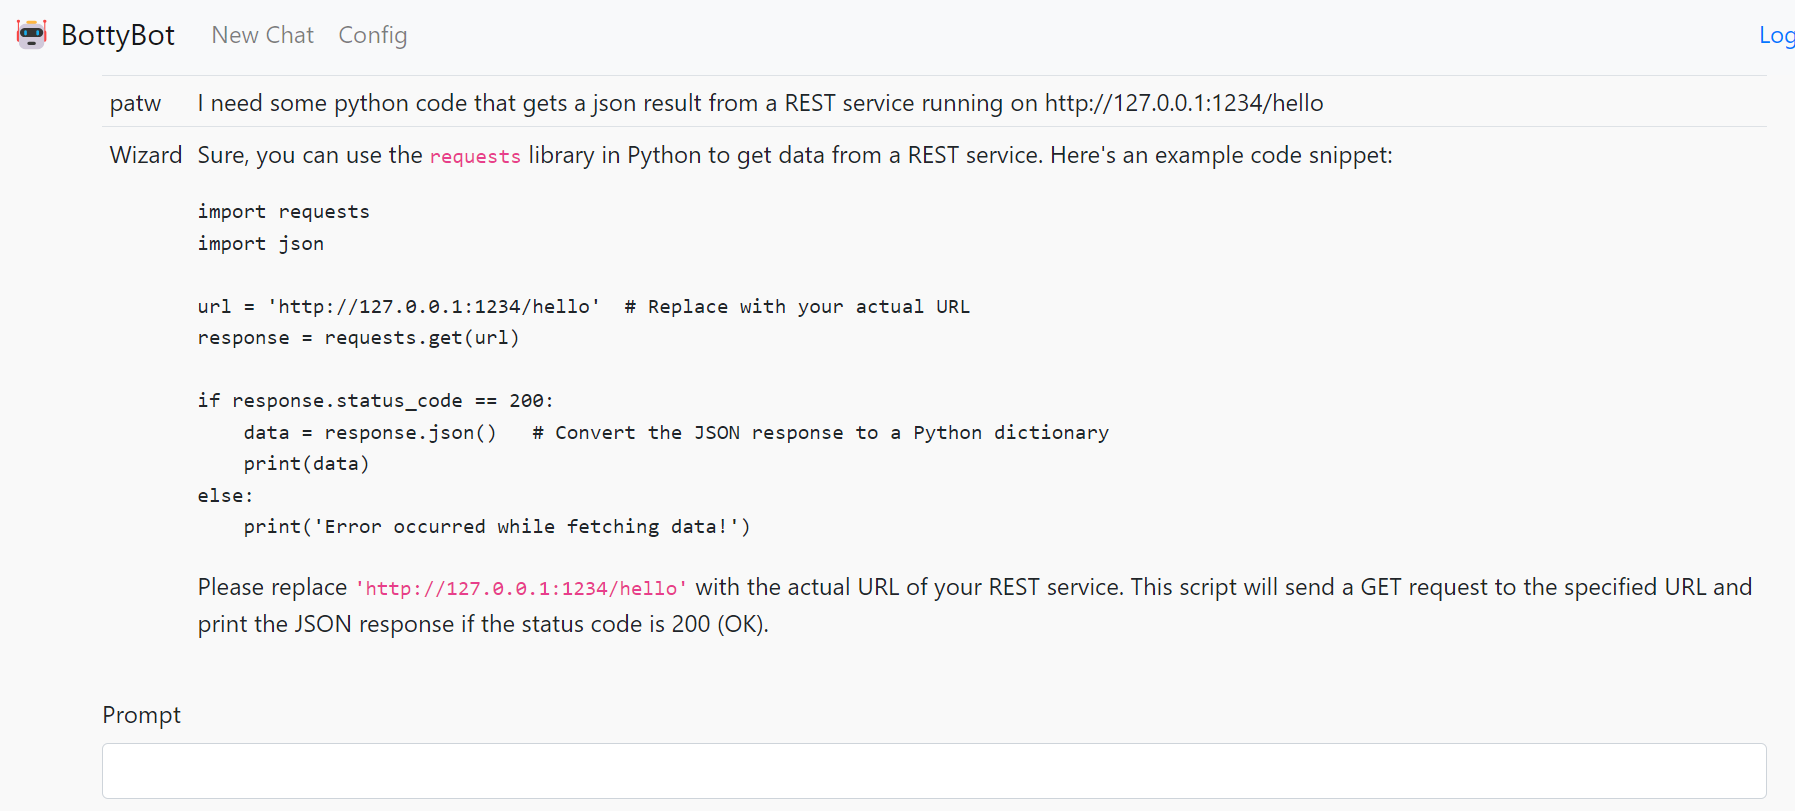
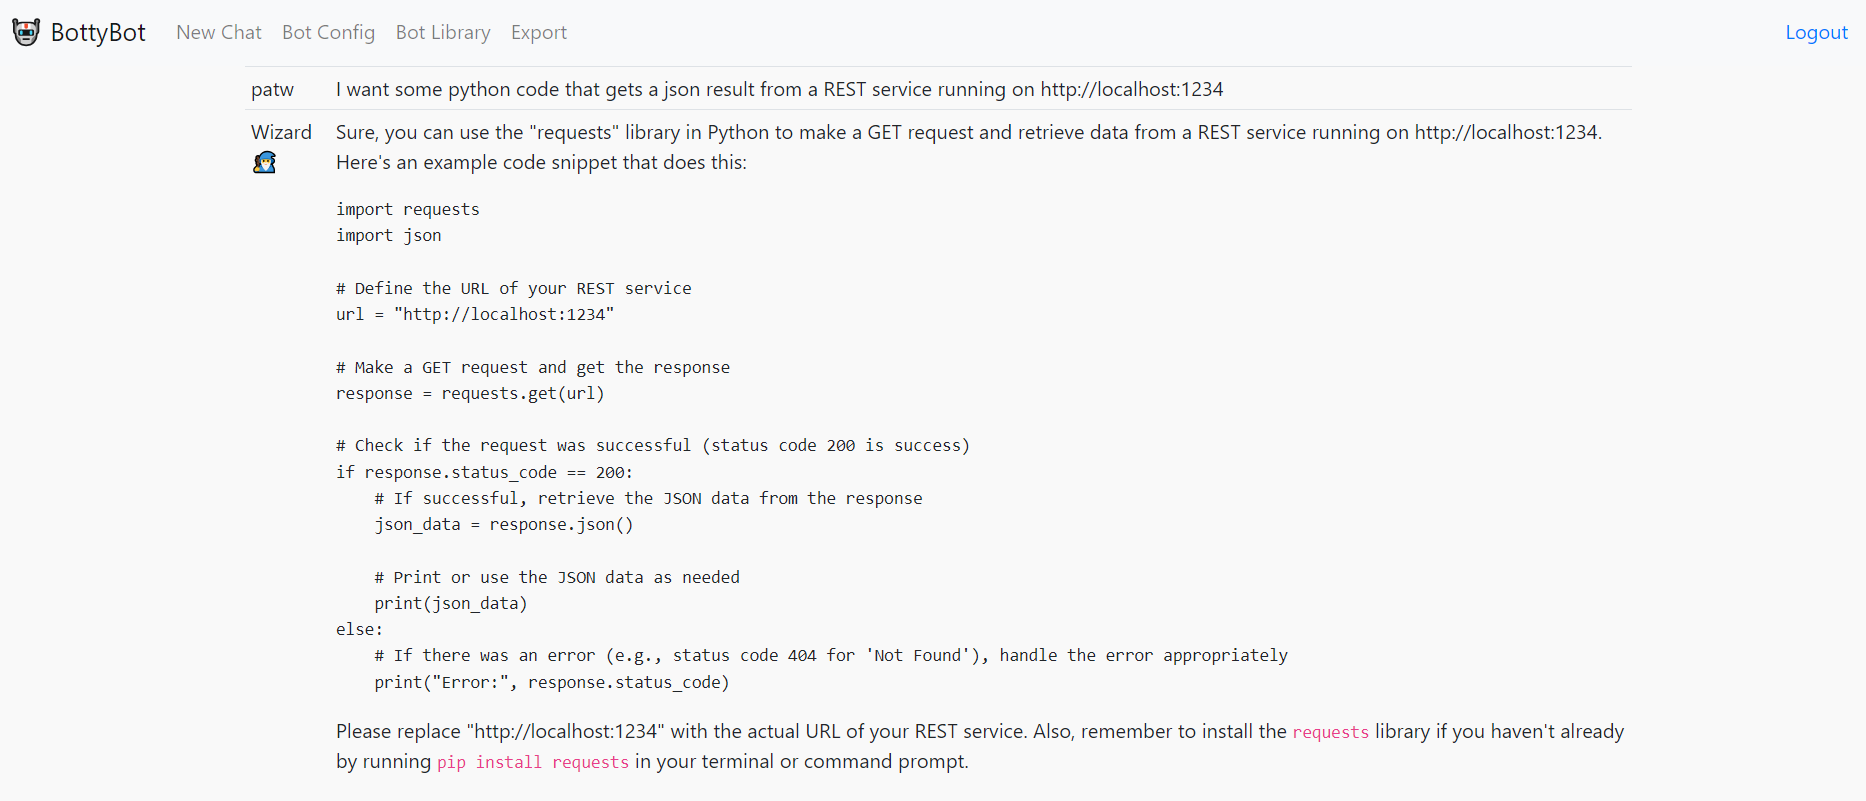
Updated screenshots and readme

diff --git a/README.md b/README.md
@@ -4,6 +4,8 @@ A simple UI for talking to a llama.cpp model running in server mode.  Give the b
 and enjoy conversations.
 
 ![BottyBot UI Screenshot](images/ui.png)
+![BottyBot Library](images/bot_library.png)
+![BottyBot Config](images/bot_config.png)
 
 ## Local Installation
 
